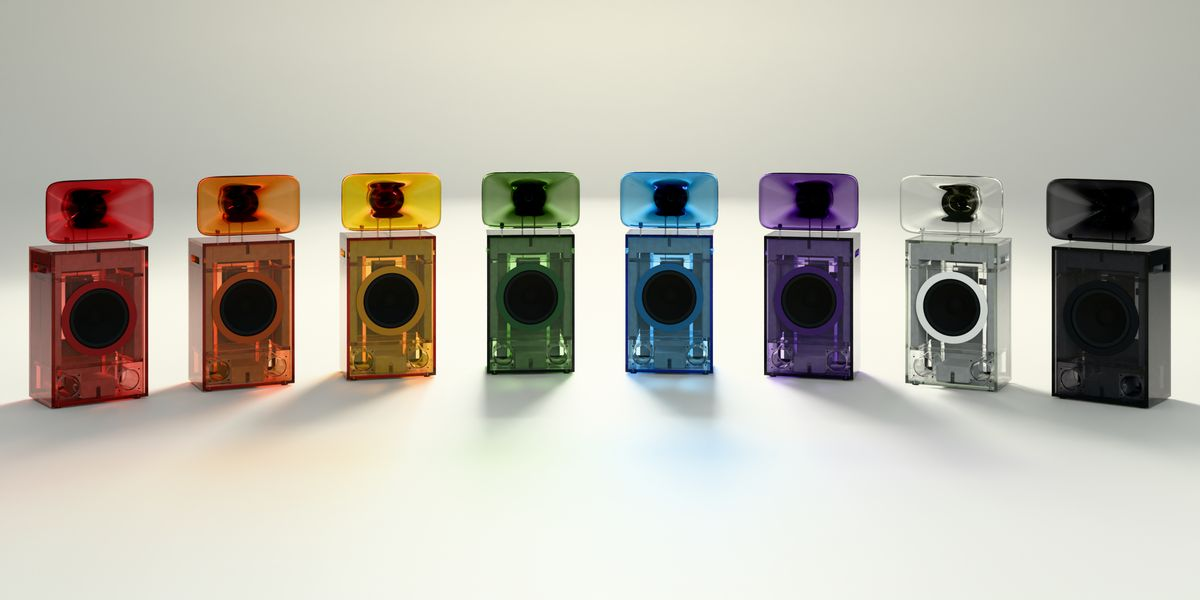
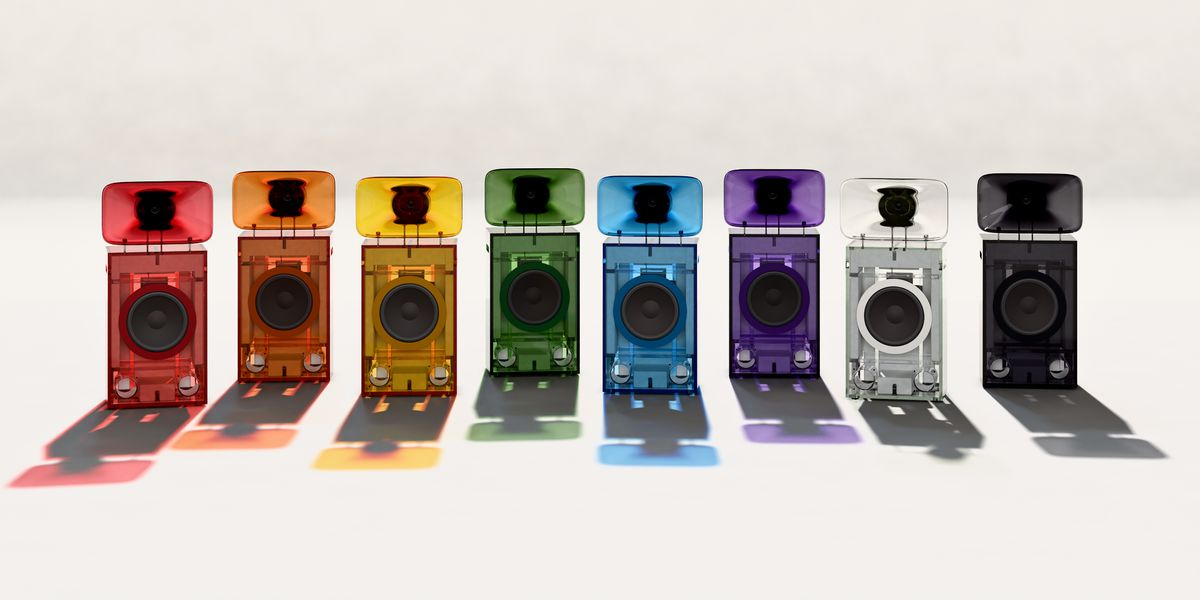
barkhorn site: the new hero (the eight in two staggered ranks) with its phone frame and link boxes
The hero (merged at aaf63e4) heads the home page: the eight in two staggered ranks on the arc, each colour's throw in
its own lane, and its phone frame below 700 px. The link boxes come from each frame's own report; where the ranks
overlap, the back rank's links come first so the front's lie over them, in the landscape as in the phone frame. The
critic log's hero row has its finals.

Claude-Session: https://claude.ai/code/session_016Hs9fK3h2VwVeRXpa18b1z

diff --git a/spinoffs/barkhorn/site/index.html b/spinoffs/barkhorn/site/index.html
@@ -377,10 +377,10 @@ html.no-cursor, html.no-cursor * { cursor: none !important }
   <section class="hero" id="top">
     <div class="hero-pic">
       <div class="hero-title"><div class="wrap"><p class="eyebrow">EARF &middot; Atmosphere</p><h1>Weather for the living room.</h1></div></div>
-      <div class="hero-photo">
-        <picture><img src="img/hero.jpg" srcset="img/hero-1200.jpg 1200w, img/hero.jpg 2400w" sizes="100vw" width="2400" height="1200"
+      <div class="hero-photo has-tall">
+        <picture><source media="(max-width: 700px)" srcset="img/hero-portrait.jpg"><img src="img/hero.jpg" srcset="img/hero-1200.jpg 1200w, img/hero.jpg 2400w" sizes="100vw" width="2400" height="1200"
           alt="The eight Atmosphere speakers on a curve, their covers off: red through violet, then the clear Fog and the smoked Smoke, each throwing its colour on the floor"></picture>
-        <a class="spot" href="#speaker-red" style="left:2.54%;top:28.59%;width:9.66%;height:38.34%"><span class="spot-label"><span class="spot-ic"><img class="ic only-light " src="img/icon-ember-light.webp" alt="" width="256" height="256"><img class="ic only-dark " src="img/icon-ember-dark.webp" alt="" width="256" height="256"></span><b>Ember</b><span>01</span></span><span class="sr">Ember, Atmosphere 01</span></a><a class="spot" href="#speaker-orange" style="left:15.5%;top:27.99%;width:9.17%;height:36.39%"><span class="spot-label"><span class="spot-ic"><img class="ic only-light " src="img/icon-dust-light.webp" alt="" width="256" height="256"><img class="ic only-dark " src="img/icon-dust-dark.webp" alt="" width="256" height="256"></span><b>Dust</b><span>02</span></span><span class="sr">Dust, Atmosphere 02</span></a><a class="spot" href="#speaker-amber" style="left:27.83%;top:27.61%;width:8.86%;height:35.17%"><span class="spot-label"><span class="spot-ic"><img class="ic only-light " src="img/icon-acid-light.webp" alt="" width="256" height="256"><img class="ic only-dark " src="img/icon-acid-dark.webp" alt="" width="256" height="256"></span><b>Acid</b><span>03</span></span><span class="sr">Acid, Atmosphere 03</span></a><a class="spot" href="#speaker-green" style="left:39.76%;top:27.42%;width:8.71%;height:34.57%"><span class="spot-label"><span class="spot-ic"><img class="ic only-light " src="img/icon-poison-light.webp" alt="" width="256" height="256"><img class="ic only-dark " src="img/icon-poison-dark.webp" alt="" width="256" height="256"></span><b>Poison</b><span>04</span></span><span class="sr">Poison, Atmosphere 04</span></a><a class="spot" href="#speaker-blue" style="left:51.53%;top:27.42%;width:8.71%;height:34.57%"><span class="spot-label"><span class="spot-ic"><img class="ic only-light " src="img/icon-ice-light.webp" alt="" width="256" height="256"><img class="ic only-dark " src="img/icon-ice-dark.webp" alt="" width="256" height="256"></span><b>Ice</b><span>05</span></span><span class="sr">Ice, Atmosphere 05</span></a><a class="spot" href="#speaker-violet" style="left:63.32%;top:27.61%;width:8.86%;height:35.17%"><span class="spot-label"><span class="spot-ic"><img class="ic only-light " src="img/icon-haze-light.webp" alt="" width="256" height="256"><img class="ic only-dark " src="img/icon-haze-dark.webp" alt="" width="256" height="256"></span><b>Haze</b><span>06</span></span><span class="sr">Haze, Atmosphere 06</span></a><a class="spot" href="#speaker-ice" style="left:75.34%;top:27.99%;width:9.17%;height:36.39%"><span class="spot-label"><span class="spot-ic"><img class="ic only-light " src="img/icon-fog-light.webp" alt="" width="256" height="256"><img class="ic only-dark " src="img/icon-fog-dark.webp" alt="" width="256" height="256"></span><b>Fog</b><span>07</span></span><span class="sr">Fog, Atmosphere 07</span></a><a class="spot" href="#speaker-black" style="left:87.8%;top:28.59%;width:9.66%;height:38.34%"><span class="spot-label"><span class="spot-ic"><img class="ic only-light " src="img/icon-smoke-light.webp" alt="" width="256" height="256"><img class="ic only-dark " src="img/icon-smoke-dark.webp" alt="" width="256" height="256"></span><b>Smoke</b><span>08</span></span><span class="sr">Smoke, Atmosphere 08</span></a>
+        <a class="spot wide-only" href="#speaker-green" style="left:40.04%;top:27.34%;width:8.71%;height:35.39%"><span class="spot-label"><span class="spot-ic"><img class="ic only-light " src="img/icon-poison-light.webp" alt="" width="256" height="256"><img class="ic only-dark " src="img/icon-poison-dark.webp" alt="" width="256" height="256"></span><b>Poison</b><span>04</span></span><span class="sr">Poison, Atmosphere 04</span></a><a class="spot wide-only" href="#speaker-violet" style="left:60.23%;top:27.5%;width:8.55%;height:35.55%"><span class="spot-label"><span class="spot-ic"><img class="ic only-light " src="img/icon-haze-light.webp" alt="" width="256" height="256"><img class="ic only-dark " src="img/icon-haze-dark.webp" alt="" width="256" height="256"></span><b>Haze</b><span>06</span></span><span class="sr">Haze, Atmosphere 06</span></a><a class="spot wide-only" href="#speaker-orange" style="left:19.34%;top:27.73%;width:8.87%;height:36.02%"><span class="spot-label"><span class="spot-ic"><img class="ic only-light " src="img/icon-dust-light.webp" alt="" width="256" height="256"><img class="ic only-dark " src="img/icon-dust-dark.webp" alt="" width="256" height="256"></span><b>Dust</b><span>02</span></span><span class="sr">Dust, Atmosphere 02</span></a><a class="spot wide-only" href="#speaker-black" style="left:81.17%;top:28.12%;width:9.06%;height:36.72%"><span class="spot-label"><span class="spot-ic"><img class="ic only-light " src="img/icon-smoke-light.webp" alt="" width="256" height="256"><img class="ic only-dark " src="img/icon-smoke-dark.webp" alt="" width="256" height="256"></span><b>Smoke</b><span>08</span></span><span class="sr">Smoke, Atmosphere 08</span></a><a class="spot wide-only" href="#speaker-blue" style="left:49.77%;top:28.52%;width:8.98%;height:37.19%"><span class="spot-label"><span class="spot-ic"><img class="ic only-light " src="img/icon-ice-light.webp" alt="" width="256" height="256"><img class="ic only-dark " src="img/icon-ice-dark.webp" alt="" width="256" height="256"></span><b>Ice</b><span>05</span></span><span class="sr">Ice, Atmosphere 05</span></a><a class="spot wide-only" href="#speaker-amber" style="left:29.65%;top:28.67%;width:8.95%;height:37.42%"><span class="spot-label"><span class="spot-ic"><img class="ic only-light " src="img/icon-acid-light.webp" alt="" width="256" height="256"><img class="ic only-dark " src="img/icon-acid-dark.webp" alt="" width="256" height="256"></span><b>Acid</b><span>03</span></span><span class="sr">Acid, Atmosphere 03</span></a><a class="spot wide-only" href="#speaker-ice" style="left:70.0%;top:28.83%;width:9.41%;height:38.12%"><span class="spot-label"><span class="spot-ic"><img class="ic only-light " src="img/icon-fog-light.webp" alt="" width="256" height="256"><img class="ic only-dark " src="img/icon-fog-dark.webp" alt="" width="256" height="256"></span><b>Fog</b><span>07</span></span><span class="sr">Fog, Atmosphere 07</span></a><a class="spot wide-only" href="#speaker-red" style="left:8.28%;top:29.3%;width:9.49%;height:38.91%"><span class="spot-label"><span class="spot-ic"><img class="ic only-light " src="img/icon-ember-light.webp" alt="" width="256" height="256"><img class="ic only-dark " src="img/icon-ember-dark.webp" alt="" width="256" height="256"></span><b>Ember</b><span>01</span></span><span class="sr">Ember, Atmosphere 01</span></a><a class="spot tall-only" href="#speaker-green" style="left:39.75%;top:31.15%;width:11.19%;height:19.1%"><span class="sr">Poison, Atmosphere 04</span></a><a class="spot tall-only" href="#speaker-violet" style="left:59.0%;top:31.3%;width:11.0%;height:19.15%"><span class="sr">Haze, Atmosphere 06</span></a><a class="spot tall-only" href="#speaker-orange" style="left:19.81%;top:31.5%;width:11.44%;height:19.45%"><span class="sr">Dust, Atmosphere 02</span></a><a class="spot tall-only" href="#speaker-black" style="left:79.0%;top:31.85%;width:11.88%;height:19.95%"><span class="sr">Smoke, Atmosphere 08</span></a><a class="spot tall-only" href="#speaker-blue" style="left:48.44%;top:33.55%;width:12.31%;height:21.6%"><span class="sr">Ice, Atmosphere 05</span></a><a class="spot tall-only" href="#speaker-amber" style="left:29.25%;top:33.7%;width:12.44%;height:21.75%"><span class="sr">Acid, Atmosphere 03</span></a><a class="spot tall-only" href="#speaker-ice" style="left:67.69%;top:33.85%;width:13.0%;height:22.5%"><span class="sr">Fog, Atmosphere 07</span></a><a class="spot tall-only" href="#speaker-red" style="left:8.75%;top:34.3%;width:13.25%;height:23.1%"><span class="sr">Ember, Atmosphere 01</span></a>
       </div>
     </div>
     <div class="wrap hero-foot">

diff --git a/spinoffs/barkhorn/web.py b/spinoffs/barkhorn/web.py
@@ -348,7 +348,7 @@ def body():
         f'<a class="spot" href="#speaker-{k}" style="left:{s["l"]}%;top:{s["t"]}%;width:{s["w"]}%;height:{s["h"]}%">'
         f'<span class="spot-label"><span class="spot-ic">{icon_img(icon, name)}</span><b>{name}</b><span>{num}</span></span>'
         f'<span class="sr">{name}, Atmosphere {num}</span></a>'
-        for (k, num, name, icon, *_), s in zip(CLOUDS, spots))
+        for (k, num, name, icon, *_), s in sorted(zip(CLOUDS, spots), key=lambda cs: cs[1]['t'] + cs[1]['h']))   # the back rank first, so the front's links lie over it
     names = ''.join(f'<li><a href="#speaker-{k}"><span class="coin-dot" style="--i:{coin[k]}"></span>{name}</a></li>'
                     for k, num, name, *_ in CLOUDS)
     turn = ''.join(

diff --git a/critic/LOG.md b/critic/LOG.md
@@ -665,7 +665,7 @@ its finals from the best rig, and put them to a blind duel against the runner-up
 | Acid | B: acid rain over wet black lava | 5.0, 5.0, 5.5, 5.0, 5.5, 6.0, 5.5, 6.0 | 6.5 | p9 over p6, 6.0 to 5.0; over A, 2 to 1 (6.3 to 5.4); re-graded off olive, 6.2 to 5.9 | the rain as CG pins; the cabinet a dark block in the backlight; in the duel, the olive grade and the straight-on view |
 | Studio | each colour on a seamless (Ember's hero), the eight as a lineup, five macros | dark: 5.5, 5.0, 5.5, 5.5, 5.0, 5.0, 5.0; bright field: 5.5 five times, then 6.5 with the colour thrown onto the floor (26 passes in all) | the eight heroes 6.5 as a set; lineup 6.5; macros 5.0 to 5.5 | bright over dark, 5.6 to 4.8; the light Ember over the dark, 6.5 to 5.5; the woofer, grip and corner reframes lost to the first frames | the internals through the clear sides; the horn's black driver; smooth uniform materials; the horn's mirror; the sweep's grey corners (blended on the site). One more round is rendering (contact shadow, a darker floor, flags on the clear frame's edges, Smoke's back light) |
 | Room | the Poison pair at home, with Cumulus | 4.5, then 6.0 to 6.5 over thirteen more | 6.5 (its phone frame 6.5) | the noon frame over a re-render with a softer sun, 6.8 to 6.5 | the cover's disc flat under raking sun (now melange); the batts lime in warm sun; the throat black; the pair about 37 % of the frame |
-| Hero | the eight together | 5.5 (the template), 6.5, 5.5, 6.0, 6.0, 6.0, 6.0, 6.0, 6.0 | rendering | the template over p8, 6.5 to 5.5 | the batts' grey shadow slabs; black throats; the smoked unit crushed |
+| Hero | the eight together (two staggered ranks, lit from behind) | 5.5 (the template), 6.5, 5.5, 6.0, 6.0, 6.0, 6.0, 6.0, 6.0, 6.0 | 6.0 (v2, full size); its phone frame 6.0 | the template over p8, 6.5 to 5.5; v1 over the previous site hero, 5.5 to 5.0; v1 over p2, 6.5 to 6.0; v2 over v1, 6.6 to 6.0 | the batts' grey shadow slabs; black throats (lights on the drivers don't open them); tinted acrylic near-black edge-on (the long path through the tint); the smoked unit swallowed by its tint |
 | Catalogue | each colour's front view | Ice: 5.5 (the old rig), then 5.5 to 6.0 over ten more; Smoke 5.5, 5.5 | 6.0 (Ice cover on, full size); all sixteen on one rig | p15 over p9, 6.0 to 5.5; pale paper over deep, 5.6 to 5.0; the new rig over the previous catalogue frame, 5.5 to 4.5 | the lining reads as foam blocks; the black mass at the horn's throat (the resin's own depth: a product question); estimates 6.5 to 7.6 with every in-scope change |
 | Uplight | each colour on a light; the night facade | facade 4.0 to 5.5, then 5.5; Ember's frame 3.5 to 4.5, then 6.5 (ten passes in all) | slides 5.5 (Ember); facade 6.5; its phone frame 6.0 | | the critics reversed one another by about a point (the wall nearer, then back to a metre); a dark spine above each speaker where the batts stop the light (the honest result, kept); Smoke barely washes the wall; the engine can't pipe light to the acrylic's edges |
 | Cumulus | the record player's hero | 5.0, 5.5, 5.5, 5.5 | 6.0 (duel) | p3 over p4, 6.0 to 5.0 | the wall outshines the product; the record reads as smoked glass |
